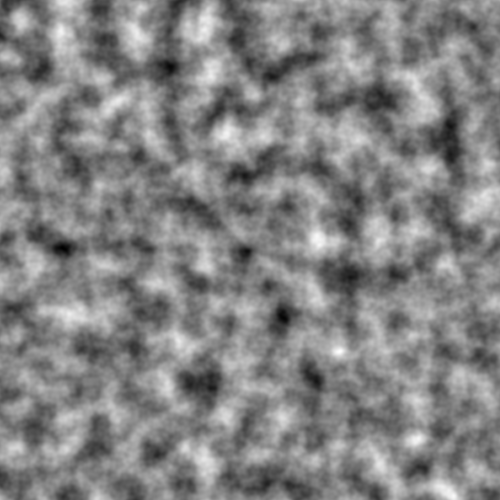
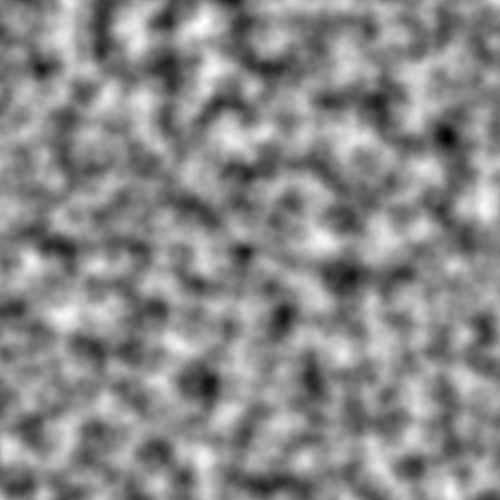
fixed minor bugs

diff --git a/src/TerrainShader.cpp b/src/TerrainShader.cpp
@@ -45,7 +45,6 @@ void TerrainShader::activate(const BaseCamera& Cam) const
 	glUniformMatrix4fv(ModelViewProjLoc, 1, GL_FALSE, ModelViewProj.m);
 
 	// glActiveTexture(GL_TEXTURE0);
-
 	NoiseMapTexture->activate(NoiseMapLoc);
 	glUniform1i(NoiseMapLoc, 2);
 
@@ -62,15 +61,9 @@ void TerrainShader::initNoiseTexture()
 {
 	int sizeX = 500;
 	int sizeZ = 500;
-	/* float* noiseMap = new float[sizeX * sizeZ];
-	for (int z = 0; z < sizeZ; z++) {
-		for (int x = 0; x < sizeX; x++) {
-			
-			noiseMap[z * (WorldWidth + 2 * MountainWidth) + x] = perlinValue;
-		}
-	}*/
 
-	std::vector<float> noiseMap = PerlinNoiseGenerator::generateNoiseMap(sizeX, sizeZ, 554532, 35.0f, 4, 0.5f, 1.87f, Vector(0,0,0));
+	std::vector<float> noiseMap = PerlinNoiseGenerator::generateNoiseMap(sizeX, sizeZ, 554532, 35.0f, 5, 0.35f, 1.75f, Vector(0,0,0));
+
 
 	NoiseMapImage = new RGBImage(sizeX, sizeZ);
 	for (int z = 0; z < sizeZ; z++) {

diff --git a/src/main.cpp b/src/main.cpp
@@ -120,9 +120,6 @@ int main () {
 void keyPressed(GLFWwindow* window, int key, int scancode, int action, int mode)
 {
 	InputManager& inputManager = InputManager::getInstance();
-	// When a user presses the escape key, we set the WindowShouldClose property to true, closing the application
-	if (key == GLFW_KEY_ESCAPE && action == GLFW_PRESS)
-		glfwSetWindowShouldClose(window, GL_TRUE);
 	if (key == GLFW_KEY_KP_0 && action == GLFW_PRESS)
 		PostProcessing::getInstance().shader->on(!PostProcessing::getInstance().shader->isOn());
     if (key == GLFW_KEY_KP_1 && action == GLFW_PRESS)

diff --git a/src/TerrainShader.h b/src/TerrainShader.h
@@ -14,8 +14,9 @@ public:
     virtual void activate(const BaseCamera& Cam) const;
 	virtual void deactivate();
 
+
 private:
-	RGBImage* NoiseMapImage;
+	RGBImage* NoiseMapImage = NULL;
 	void initNoiseTexture();
 
     float WorldWidth = GameSettings::WORLD_WIDTH;

diff --git a/src/Scene.h b/src/Scene.h
@@ -37,6 +37,7 @@ public:
 	};
 
 	void Unload() {
+		dynamicObjects.remove(NULL);
 		while (!dynamicObjects.empty()) {
 			gameObjects.remove(dynamicObjects.front());
 			delete dynamicObjects.front();

diff --git a/src/GameManager.cpp b/src/GameManager.cpp
@@ -21,6 +21,7 @@
 #include "GameSettings.h"
 #include "TerrainShader.h"
 #include "ParticleGenerator.h"
+#include "TerrainController.h"
 
 #define _USE_MATH_DEFINES
 #include <math.h>

diff --git a/src/TerrainController.cpp b/src/TerrainController.cpp
@@ -1,0 +1,1 @@
+#include "TerrainController.h"
